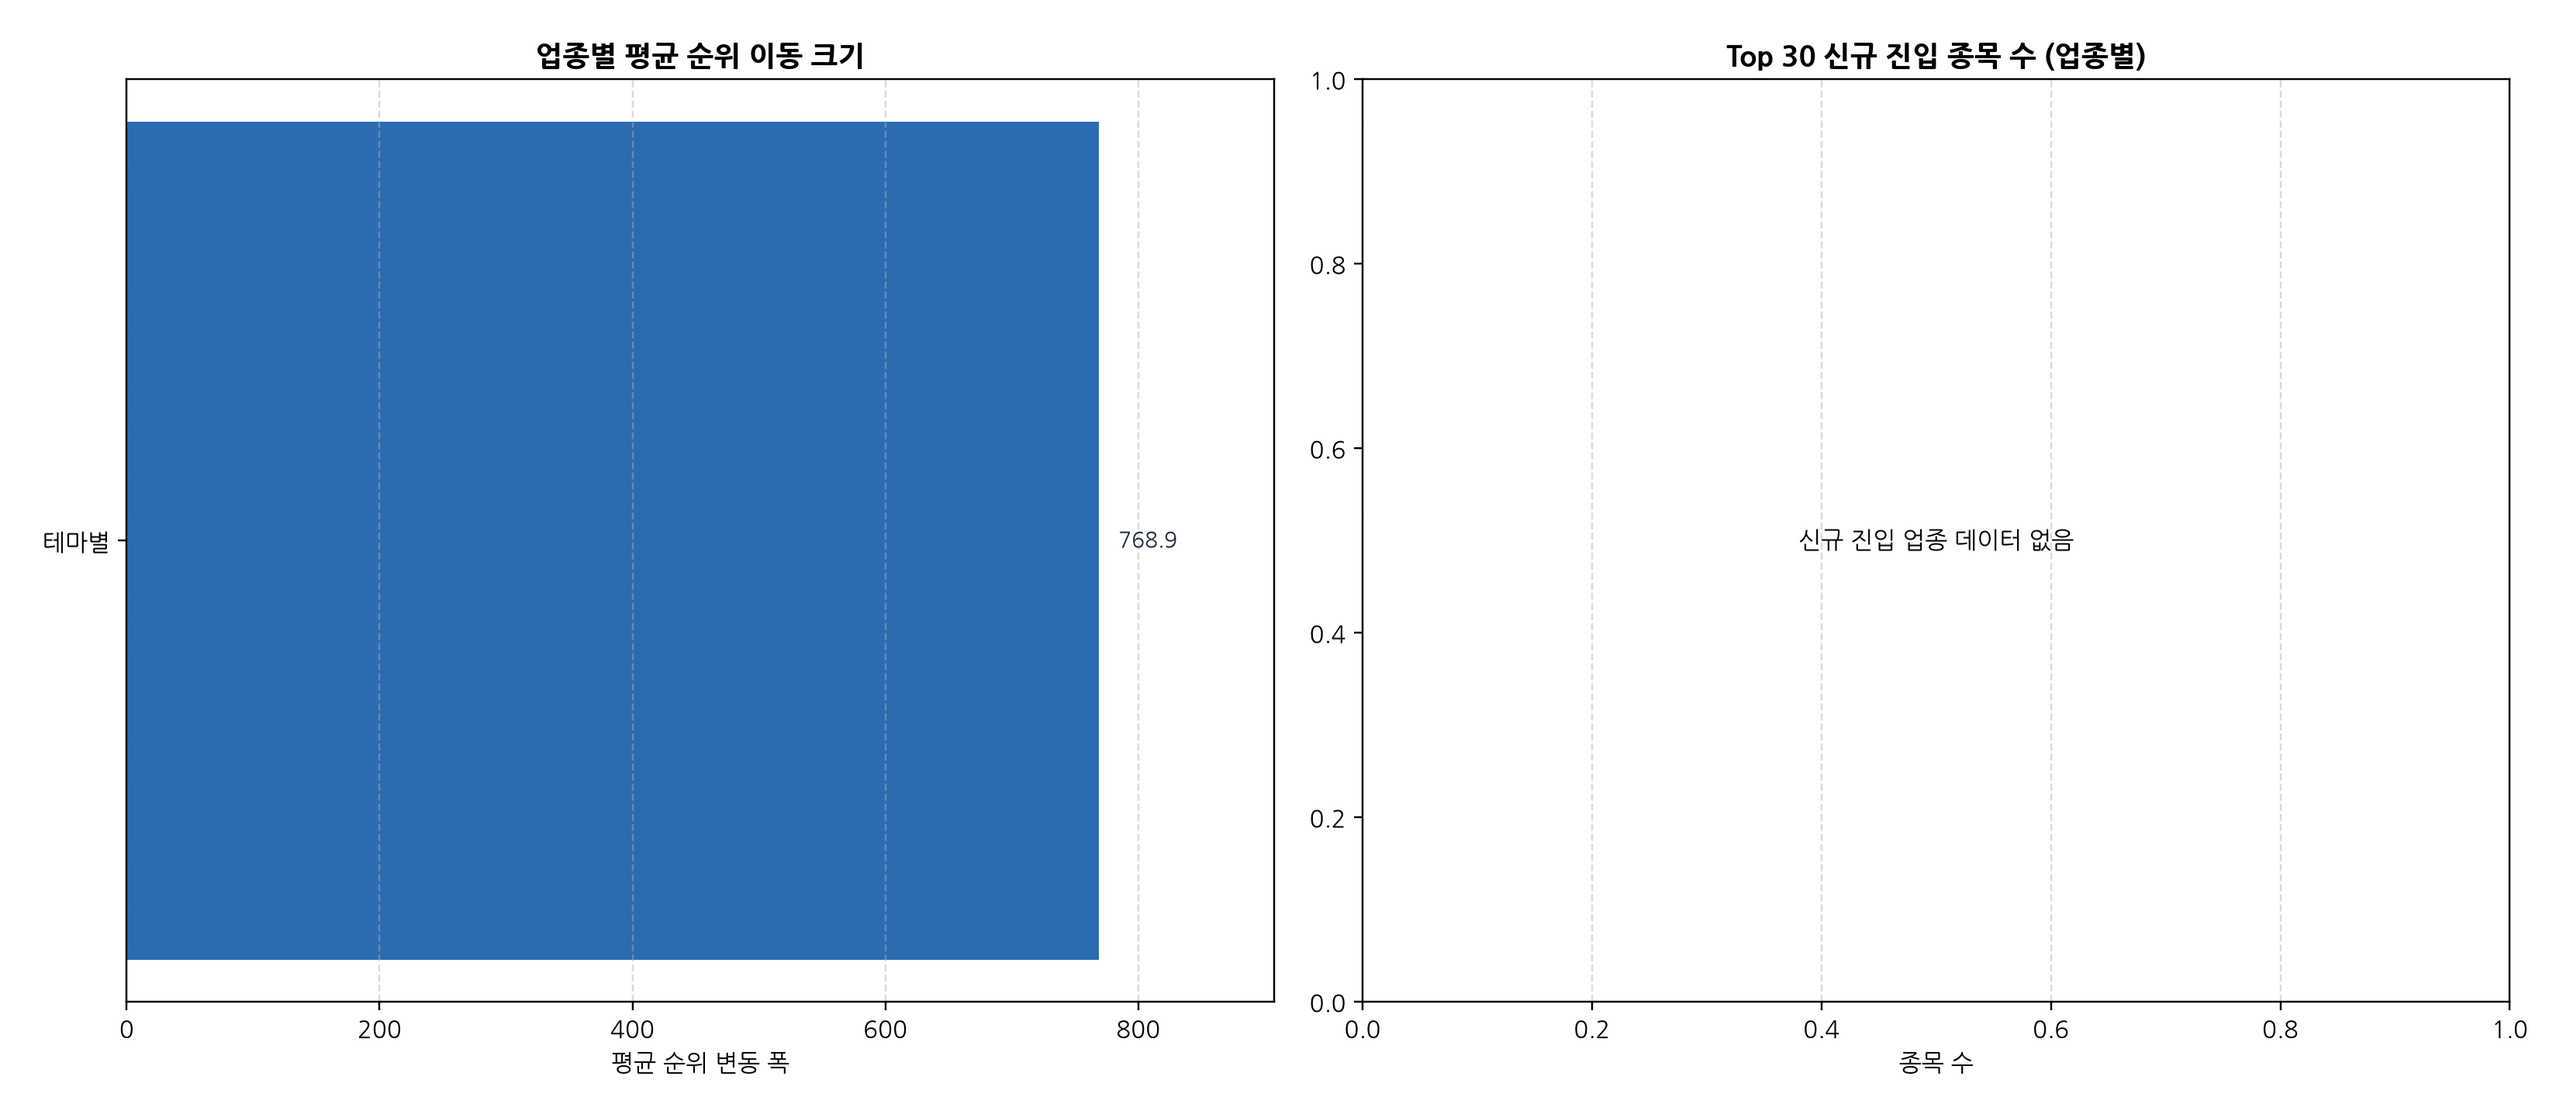
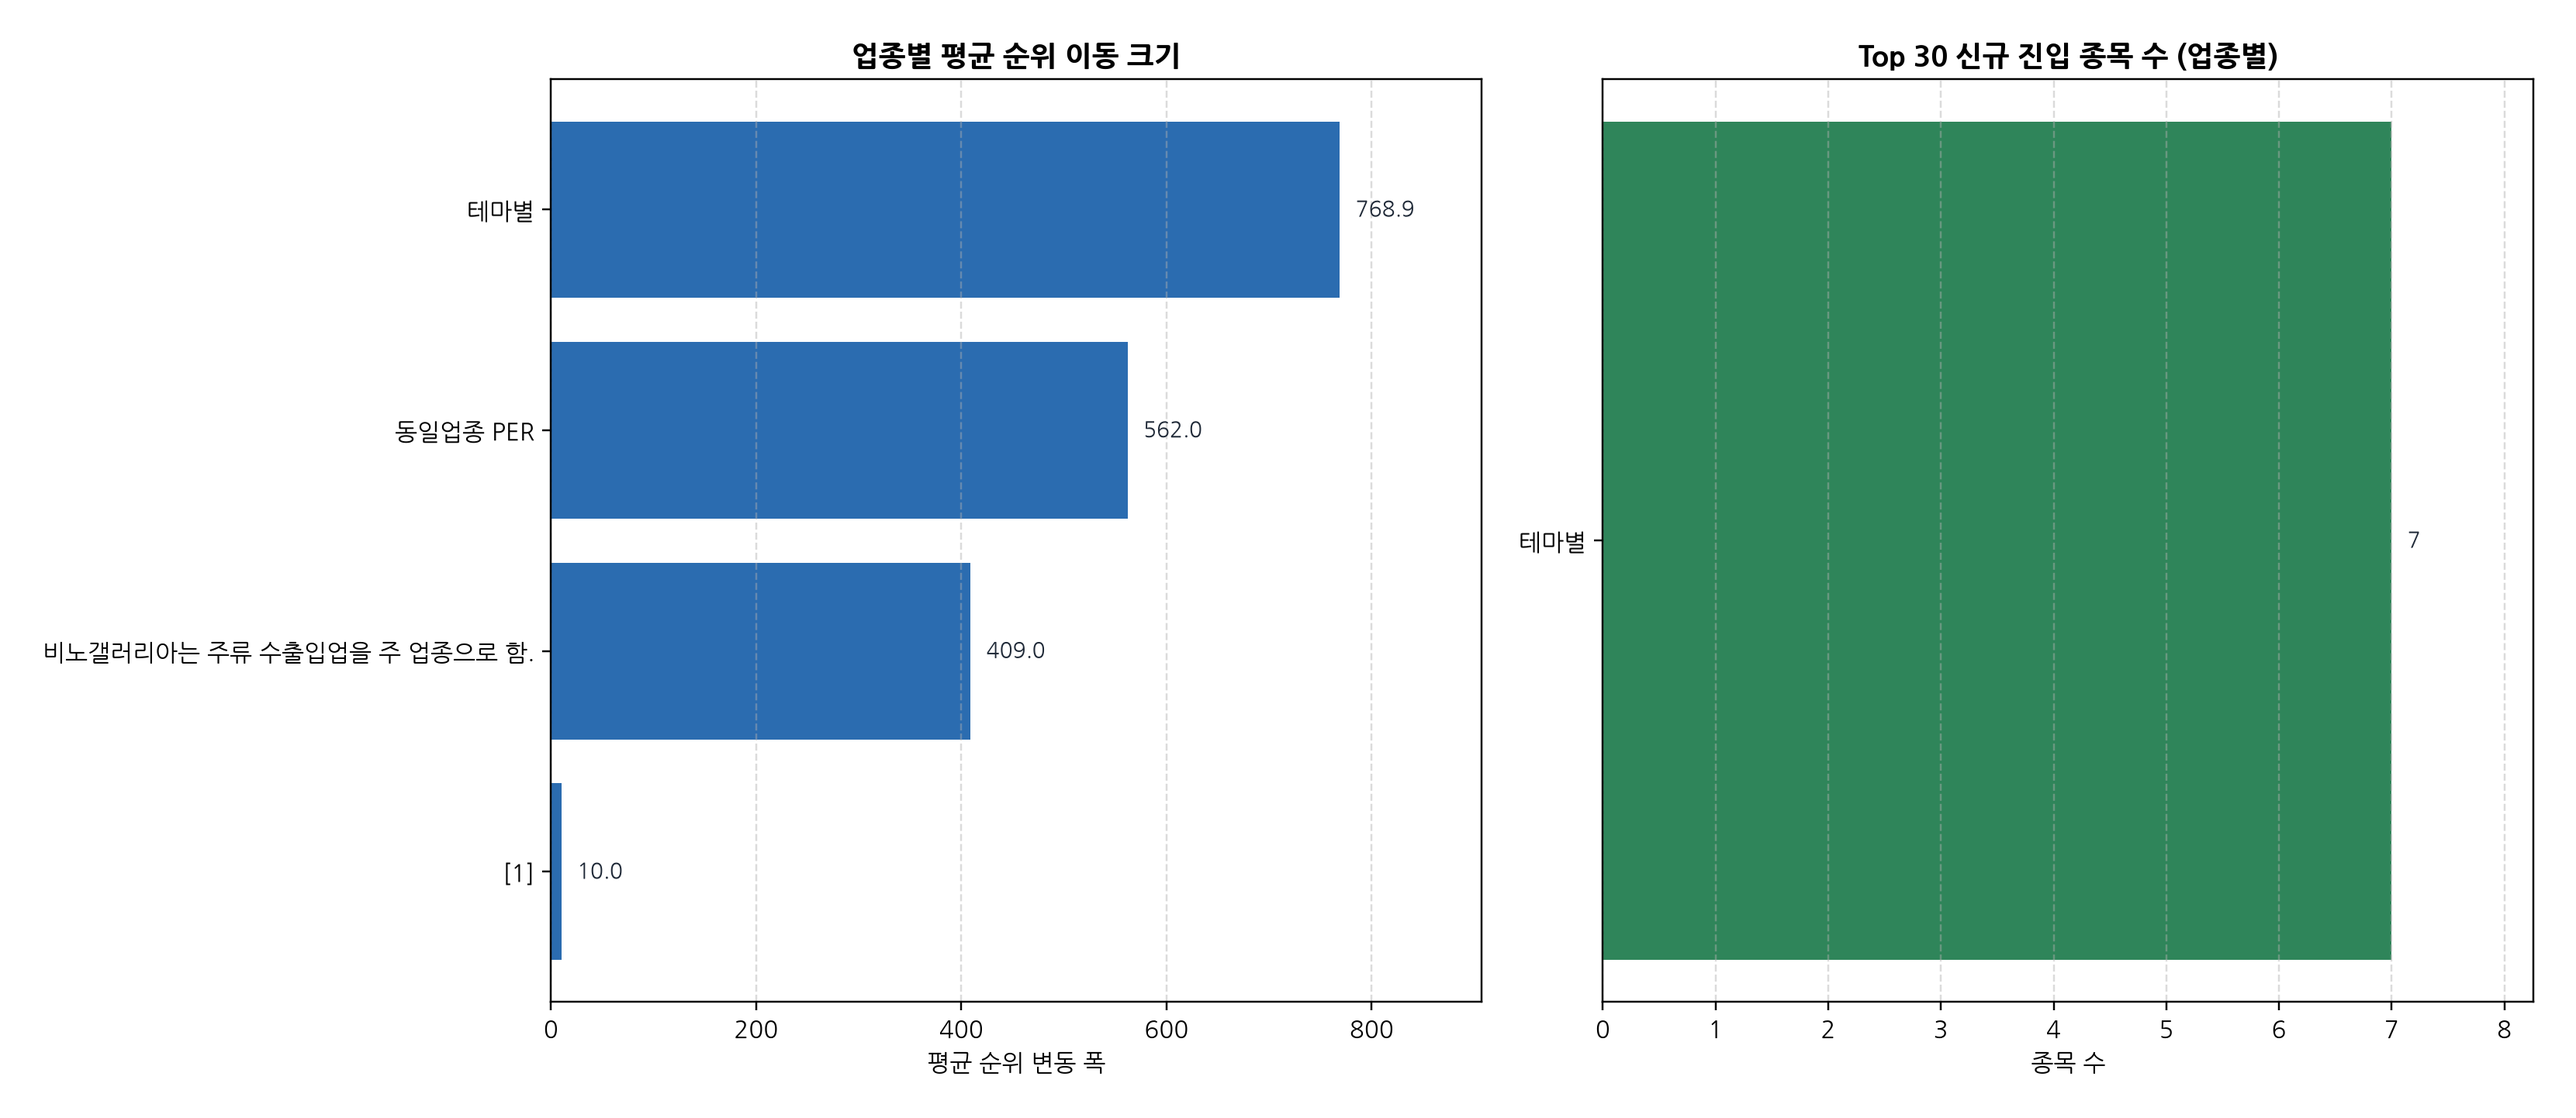
Compute Q1 sector shift and new entries cleanly from parquet/lookup

diff --git a/make_q1_rank_shift_plot.py b/make_q1_rank_shift_plot.py
@@ -1,6 +1,5 @@
 import glob
 import os
-import re
 import numpy as np
 import pandas as pd
 import matplotlib.pyplot as plt
@@ -64,137 +63,180 @@ def clean_sector_series(s: pd.Series) -> pd.Series:
 def safe_read_csv(path: str) -> pd.DataFrame:
     if path and os.path.exists(path) and os.path.getsize(path) > 0:
         try:
-            return pd.read_csv(path)
+            df = pd.read_csv(path)
+            if len(df) > 0:
+                return df
         except Exception:
             return pd.DataFrame()
     return pd.DataFrame()
 
 
-def load_or_compute_q1_data() -> tuple[pd.DataFrame, pd.DataFrame]:
-    shift_df = pd.DataFrame()
-    new_df = pd.DataFrame()
+def build_code_sector_lookup() -> dict:
+    """다른 CSV나 parquet에서 유효한 (code -> sector) 매핑을 수집"""
+    lookup = {}
+    cand_csvs = [
+        "kakao_sector_8metrics.csv",
+        "results_spec1_spec2/spec1_naver_kakao_focus.csv",
+        "results_spec1_spec2/spec1_sector_comparison.csv",
+        "results_all_8q/q5_opm_vs_return_sector.csv",
+        "results_all_8q/q8_debt_vs_vol.csv",
+    ]
+    for path in cand_csvs:
+        df = safe_read_csv(path)
+        if df.empty or "code" not in df.columns:
+            continue
+        sec_c = next((c for c in ["sector_clean", "sector_final", "sector"] if c in df.columns), None)
+        if not sec_c:
+            continue
+        s_clean = clean_sector_series(df[sec_c])
+        for c, sec in zip(df["code"].astype(str).str.zfill(6), s_clean):
+            if pd.notna(sec) and c not in lookup:
+                lookup[c] = sec
+    return lookup
 
+
+def compute_from_parquet() -> tuple[pd.DataFrame, pd.DataFrame]:
+    p_files = sorted(glob.glob(os.path.expanduser("~/parquet/*.parquet")))
+    if not p_files:
+        p_files = sorted(glob.glob("parquet/*.parquet"))
+    if not p_files:
+        return pd.DataFrame(columns=["sector_clean", "shift_val"]), pd.DataFrame(columns=["sector_clean", "cnt"])
+
+    dfs = []
+    for fp in p_files:
+        try:
+            dfs.append(pd.read_parquet(fp))
+        except Exception:
+            continue
+    if not dfs:
+        return pd.DataFrame(columns=["sector_clean", "shift_val"]), pd.DataFrame(columns=["sector_clean", "cnt"])
+
+    raw = pd.concat(dfs, ignore_index=True)
+    mcap_col = next((c for c in ["market_cap", "mcap", "시가총액"] if c in raw.columns), None)
+    sec_col = next((c for c in ["sector", "raw_sector", "업종"] if c in raw.columns), None)
+    if not mcap_col or "date" not in raw.columns or "code" not in raw.columns:
+        return pd.DataFrame(columns=["sector_clean", "shift_val"]), pd.DataFrame(columns=["sector_clean", "cnt"])
+
+    raw["date"] = pd.to_datetime(raw["date"], errors="coerce")
+    raw["code_z"] = raw["code"].astype(str).str.strip().str.zfill(6)
+    raw[mcap_col] = pd.to_numeric(raw[mcap_col], errors="coerce")
+
+    valid = raw.dropna(subset=["date", "code_z", mcap_col]).copy()
+    dates = sorted(valid["date"].unique())
+    if len(dates) < 2:
+        return pd.DataFrame(columns=["sector_clean", "shift_val"]), pd.DataFrame(columns=["sector_clean", "cnt"])
+
+    lookup = build_code_sector_lookup()
+    if sec_col and sec_col in valid.columns:
+        sec_clean_all = clean_sector_series(valid[sec_col])
+        for c, sec in zip(valid["code_z"], sec_clean_all):
+            if pd.notna(sec) and c not in lookup:
+                lookup[c] = sec
+
+    valid["sector_clean"] = valid["code_z"].map(lookup)
+    # 매핑이 없는 경우 정제된 원시 라벨 fallback, 그래도 없으면 '기타/미분류'로 구분 집계
+    if sec_col and sec_col in valid.columns:
+        fallback_sec = clean_sector_series(valid[sec_col])
+        valid["sector_clean"] = valid["sector_clean"].fillna(fallback_sec)
+    valid["sector_clean"] = valid["sector_clean"].fillna("기타/미분류")
+
+    s_df = valid[valid["date"] == dates[0]].copy()
+    e_df = valid[valid["date"] == dates[-1]].copy()
+
+    s_df["rank_start"] = s_df[mcap_col].rank(ascending=False, method="min")
+    e_df["rank_end"] = e_df[mcap_col].rank(ascending=False, method="min")
+
+    top30_start = set(s_df[s_df["rank_start"] <= 30]["code_z"])
+    top30_end = set(e_df[e_df["rank_end"] <= 30]["code_z"])
+    new_codes = top30_end - top30_start
+
+    new_df = e_df[e_df["code_z"].isin(new_codes)].copy()
+    new_counts = (
+        new_df.groupby("sector_clean", as_index=False)
+        .size()
+        .rename(columns={"size": "cnt"})
+        .sort_values("cnt", ascending=False)
+    )
+
+    merged = pd.merge(
+        s_df[["code_z", "sector_clean", "rank_start"]],
+        e_df[["code_z", "sector_clean", "rank_end"]],
+        on="code_z",
+        how="inner",
+        suffixes=("_start", "_end"),
+    )
+    merged["sector_final"] = merged["sector_clean_end"].fillna(merged["sector_clean_start"])
+    merged["abs_rank_shift"] = (merged["rank_end"] - merged["rank_start"]).abs()
+
+    grp = merged.groupby("sector_final", as_index=False).agg(
+        n_stocks=("code_z", "count"),
+        mean_abs_shift=("abs_rank_shift", "mean"),
+    )
+    # 종목 수 3개 이상 우선, 부족하면 전체 집계 사용
+    grp_3 = grp[grp["n_stocks"] >= 3]
+    use_grp = grp_3 if len(grp_3) >= 2 else grp
+    shift_out = (
+        use_grp.rename(columns={"sector_final": "sector_clean", "mean_abs_shift": "shift_val"})
+        .dropna(subset=["sector_clean", "shift_val"])
+        .sort_values("shift_val", ascending=False)
+    )
+
+    return shift_out[["sector_clean", "shift_val"]], new_counts[["sector_clean", "cnt"]]
+
+
+def load_or_compute_q1_data() -> tuple[pd.DataFrame, pd.DataFrame]:
+    shift_clean = pd.DataFrame(columns=["sector_clean", "shift_val"])
+    new_counts = pd.DataFrame(columns=["sector_clean", "cnt"])
+
+    # 1) CSV 시도
     for d in ["results_q1_q4", "results_all_8q", "results_spec1_spec2"]:
         s_cand = safe_read_csv(os.path.join(d, "q1_sector_rank_shift.csv"))
         if not s_cand.empty:
-            shift_df = s_cand
-            break
+            sec_col = next((c for c in ["sector_final", "sector", "raw_sector", "업종"] if c in s_cand.columns), s_cand.columns[0])
+            val_col = next((c for c in ["mean_abs_shift", "abs_rank_shift", "rank_shift", "mean_shift"] if c in s_cand.columns), None)
+            if val_col:
+                tmp = s_cand.copy()
+                tmp["sector_clean"] = clean_sector_series(tmp[sec_col])
+                tmp["shift_val"] = pd.to_numeric(tmp[val_col], errors="coerce")
+                tmp = tmp.dropna(subset=["sector_clean", "shift_val"]).sort_values("shift_val", ascending=False)
+                if len(tmp) >= 2:
+                    shift_clean = tmp[["sector_clean", "shift_val"]]
+                    break
 
     for d in ["results_q1_q4", "results_all_8q", "results_spec1_spec2"]:
         for fn in ["q1_top30_new_entries.csv", "q1_new_top30.csv"]:
             n_cand = safe_read_csv(os.path.join(d, fn))
             if not n_cand.empty:
-                new_df = n_cand
-                break
-        if not new_df.empty:
+                lookup = build_code_sector_lookup()
+                tmp = n_cand.copy()
+                if "code" in tmp.columns:
+                    tmp["sector_clean"] = tmp["code"].astype(str).str.strip().str.zfill(6).map(lookup)
+                if "sector_clean" not in tmp.columns or tmp["sector_clean"].isna().all():
+                    n_sec_col = next((c for c in ["sector", "raw_sector", "업종"] if c in tmp.columns), None)
+                    if n_sec_col:
+                        tmp["sector_clean"] = clean_sector_series(tmp[n_sec_col])
+                if "sector_clean" in tmp.columns:
+                    tmp = tmp.dropna(subset=["sector_clean"])
+                    if len(tmp) >= 1:
+                        new_counts = (
+                            tmp.groupby("sector_clean", as_index=False)
+                            .size()
+                            .rename(columns={"size": "cnt"})
+                            .sort_values("cnt", ascending=False)
+                        )
+                        break
+        if not new_counts.empty:
             break
 
-    # CSV가 없거나 유효한 순위 이동 값이 부족한 경우 parquet에서 직접 산출
-    need_recompute = shift_df.empty
-    if not need_recompute:
-        val_col = next(
-            (c for c in ["mean_abs_shift", "abs_rank_shift", "rank_shift", "mean_shift"] if c in shift_df.columns),
-            None,
-        )
-        if not val_col or pd.to_numeric(shift_df[val_col], errors="coerce").dropna().empty:
-            need_recompute = True
+    # 2) CSV가 비었거나 부족하면 parquet에서 직접 계산
+    if len(shift_clean) < 2 or new_counts.empty:
+        pq_shift, pq_new = compute_from_parquet()
+        if len(shift_clean) < 2 and not pq_shift.empty:
+            shift_clean = pq_shift
+        if new_counts.empty and not pq_new.empty:
+            new_counts = pq_new
 
-    if need_recompute:
-        p_files = sorted(glob.glob(os.path.expanduser("~/parquet/*.parquet")))
-        if not p_files:
-            p_files = sorted(glob.glob("parquet/*.parquet"))
-
-        dfs = []
-        for fp in p_files:
-            try:
-                dfs.append(pd.read_parquet(fp))
-            except Exception:
-                continue
-
-        if dfs:
-            raw = pd.concat(dfs, ignore_index=True)
-            mcap_col = next((c for c in ["market_cap", "mcap", "시가총액"] if c in raw.columns), None)
-            sec_col = next((c for c in ["sector", "raw_sector", "업종"] if c in raw.columns), None)
-            if mcap_col and "date" in raw.columns and "code" in raw.columns:
-                raw["date"] = pd.to_datetime(raw["date"], errors="coerce")
-                raw[mcap_col] = pd.to_numeric(raw[mcap_col], errors="coerce")
-                valid = raw.dropna(subset=["date", "code", mcap_col]).copy()
-                dates = sorted(valid["date"].unique())
-                if len(dates) >= 2:
-                    s_df = valid[valid["date"] == dates[0]].copy()
-                    e_df = valid[valid["date"] == dates[-1]].copy()
-                    s_df["rank_start"] = s_df[mcap_col].rank(ascending=False, method="min")
-                    e_df["rank_end"] = e_df[mcap_col].rank(ascending=False, method="min")
-
-                    top30_start = set(s_df[s_df["rank_start"] <= 30]["code"])
-                    top30_end = set(e_df[e_df["rank_end"] <= 30]["code"])
-                    new_codes = top30_end - top30_start
-
-                    name_col = "name" if "name" in e_df.columns else "code"
-                    new_df = e_df[e_df["code"].isin(new_codes)].copy()
-                    if sec_col and sec_col in new_df.columns:
-                        new_df["sector_clean"] = clean_sector_series(new_df[sec_col])
-                    else:
-                        new_df["sector_clean"] = np.nan
-
-                    s_sec = clean_sector_series(s_df[sec_col]) if (sec_col and sec_col in s_df.columns) else pd.Series(index=s_df.index, dtype=object)
-                    e_sec = clean_sector_series(e_df[sec_col]) if (sec_col and sec_col in e_df.columns) else pd.Series(index=e_df.index, dtype=object)
-                    s_df["sector_clean"] = s_sec
-                    e_df["sector_clean"] = e_sec
-
-                    merged = pd.merge(
-                        s_df[["code", "sector_clean", "rank_start"]],
-                        e_df[["code", "sector_clean", "rank_end"]],
-                        on="code",
-                        how="inner",
-                        suffixes=("_start", "_end"),
-                    )
-                    merged["sector_final"] = merged["sector_clean_end"].fillna(merged["sector_clean_start"])
-                    merged["abs_rank_shift"] = (merged["rank_end"] - merged["rank_start"]).abs()
-                    merged = merged.dropna(subset=["sector_final", "abs_rank_shift"])
-
-                    grp = merged.groupby("sector_final", as_index=False).agg(
-                        n_stocks=("code", "count"),
-                        mean_abs_shift=("abs_rank_shift", "mean"),
-                    )
-                    shift_df = grp[grp["n_stocks"] >= 3].sort_values("mean_abs_shift", ascending=False)
-
-    # 최종 정제 및 수치 변환
-    if not shift_df.empty:
-        sec_col = next((c for c in ["sector_final", "sector", "raw_sector", "업종"] if c in shift_df.columns), shift_df.columns[0])
-        val_col = next((c for c in ["mean_abs_shift", "abs_rank_shift", "rank_shift", "mean_shift"] if c in shift_df.columns), None)
-        if val_col is None:
-            num_cols = [c for c in shift_df.columns if c != sec_col and pd.api.types.is_numeric_dtype(pd.to_numeric(shift_df[c], errors="coerce"))]
-            val_col = num_cols[0] if num_cols else shift_df.columns[-1]
-
-        s_clean = shift_df.copy()
-        s_clean["sector_clean"] = clean_sector_series(s_clean[sec_col])
-        s_clean["shift_val"] = pd.to_numeric(s_clean[val_col], errors="coerce")
-        if "n_stocks" in s_clean.columns:
-            s_clean["n_stocks"] = pd.to_numeric(s_clean["n_stocks"], errors="coerce")
-            s_clean = s_clean[s_clean["n_stocks"].fillna(3) >= 3]
-        s_clean = s_clean.dropna(subset=["sector_clean", "shift_val"]).sort_values("shift_val", ascending=False)
-    else:
-        s_clean = pd.DataFrame(columns=["sector_clean", "shift_val"])
-
-    if not new_df.empty:
-        n_sec_col = next((c for c in ["sector_clean", "sector", "raw_sector", "업종"] if c in new_df.columns), None)
-        if n_sec_col:
-            n_clean = new_df.copy()
-            n_clean["sector_clean"] = clean_sector_series(n_clean[n_sec_col])
-            n_clean = n_clean.dropna(subset=["sector_clean"])
-            n_counts = (
-                n_clean.groupby("sector_clean", as_index=False)
-                .size()
-                .rename(columns={"size": "cnt"})
-                .sort_values("cnt", ascending=False)
-            )
-        else:
-            n_counts = pd.DataFrame(columns=["sector_clean", "cnt"])
-    else:
-        n_counts = pd.DataFrame(columns=["sector_clean", "cnt"])
-
-    return s_clean.head(10).iloc[::-1], n_counts.head(10).iloc[::-1]
+    return shift_clean.head(10).iloc[::-1], new_counts.head(10).iloc[::-1]
 
 
 def build_plot(out_path: str = "plots_q1_q4/q1_market_cap_rank_shift.png") -> None:
@@ -206,7 +248,6 @@ def build_plot(out_path: str = "plots_q1_q4/q1_market_cap_rank_shift.png") -> No
     fig, (ax1, ax2) = plt.subplots(1, 2, figsize=(15, 6.5))
     fig.patch.set_facecolor("white")
 
-    # 왼쪽 패널: 업종별 평균 순위 이동 크기
     if not shift_plot.empty:
         ax1.barh(
             shift_plot["sector_clean"],
@@ -232,7 +273,6 @@ def build_plot(out_path: str = "plots_q1_q4/q1_market_cap_rank_shift.png") -> No
     ax1.set_xlabel("평균 순위 변동 폭", fontsize=10)
     ax1.grid(axis="x", linestyle="--", alpha=0.45)
 
-    # 오른쪽 패널: 신규 진입 종목 수 (업종별)
     if not new_plot.empty:
         ax2.barh(
             new_plot["sector_clean"],
